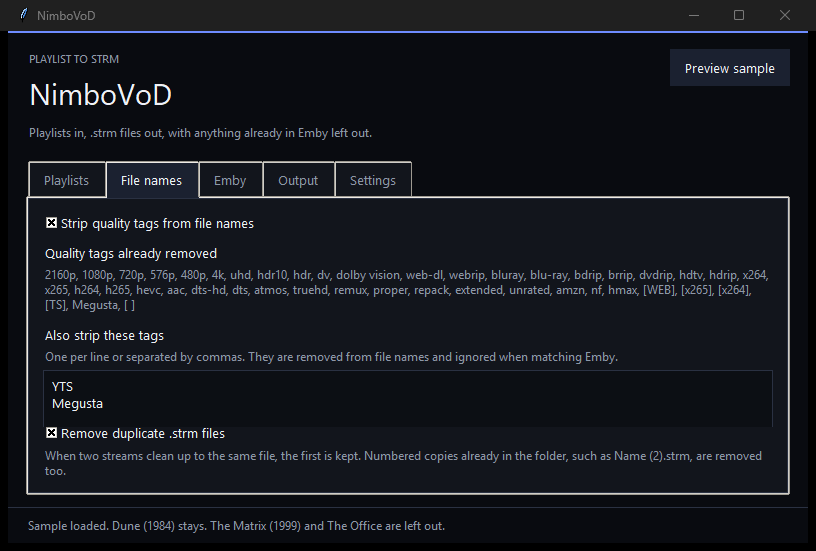
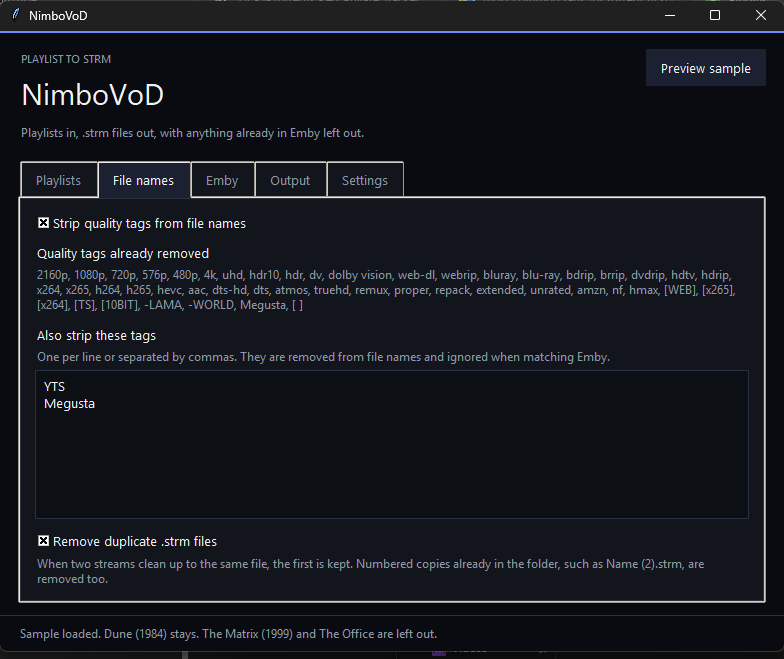
Keep tag editing responsive, remember the last playlist pull, and strip -LAMA, [10BIT], and -WORLD.

Changed region(s): [[0.0, 0.0, 1.0, 1.0]]

diff --git a/src/assets/nimbovod_gui.py b/src/assets/nimbovod_gui.py
@@ -17,6 +17,7 @@ import sys
 import threading
 import time
 import tkinter as tk
+from datetime import datetime
 # The cleaner is loaded from a separate file, so PyInstaller only sees imports made here.
 import urllib.error
 import urllib.request
@@ -39,7 +40,7 @@ ERROR_FG = "#f0c8d0"
 ERROR_LINE = "#c45d6e"
 MAX_PLAYLIST_BYTES = 80 * 1024 * 1024
 TREE_LIMIT = 2500
-APP_VERSION = "1.11"
+APP_VERSION = "1.12"
 RELEASES_URL = "https://api.github.com/repos/Coldsac/NimboVoD/releases?per_page=30"
 
 LAYOUT_HINTS = {
@@ -465,6 +466,8 @@ def apply_startup_registration(enabled: bool) -> str | None:
 
 # The first automatic update waits so a sign-in launch can find the network and the save folder.
 STARTUP_UPDATE_DELAY_MS = 60_000
+TAG_PLAN_DELAY_MS = 600
+PULL_MONTHS = ("Jan", "Feb", "Mar", "Apr", "May", "Jun", "Jul", "Aug", "Sep", "Oct", "Nov", "Dec")
 
 
 def auto_steps(pull_playlists: bool, pull_emby: bool, apply_strm: bool) -> list[str]:
@@ -584,6 +587,13 @@ def newer_releases(notes: list[dict], current: str) -> list[dict]:
     if current_key is None:
         return list(notes)
     return [note for note in notes if (version_key(note["tag"]) or ()) > current_key]
+
+
+def format_pull_time(moment: datetime) -> str:
+    """Local clock time for the last automatic playlist pull."""
+    hour = moment.hour % 12 or 12
+    suffix = "AM" if moment.hour < 12 else "PM"
+    return f"{PULL_MONTHS[moment.month - 1]} {moment.day}, {moment.year}, {hour}:{moment.minute:02d} {suffix}"
 
 
 def playlist_label(source: str) -> str:
@@ -738,6 +748,10 @@ class App(tk.Tk):
         super().__init__()
         self.cleaner = load_cleaner()
         self._tag_job: str | None = None
+        self._plan_token = 0
+        self._plan_running = False
+        self._plan_dirty = False
+        self.playlists_pulled_at = ""
         self._wheel_job: str | None = None
         self._wheel_pending = 0.0
         self._refresh_job: str | None = None
@@ -1045,7 +1059,19 @@ class App(tk.Tk):
             pady=8,
             font=("Segoe UI", 9),
         )
+        self.status_label = status
         status.pack(side="bottom", fill="x")
+        self.pull_log = tk.StringVar(value="")
+        self.pull_log_label = tk.Label(
+            self,
+            textvariable=self.pull_log,
+            bg=CANVAS,
+            fg=MUTED,
+            anchor="w",
+            padx=18,
+            pady=4,
+            font=("Segoe UI", 9),
+        )
         tk.Frame(self, bg=LINE, height=1).pack(side="bottom", fill="x")
 
         self.form_host = ttk.Frame(self)
@@ -1702,14 +1728,64 @@ class App(tk.Tk):
             return
         if self._tag_job is not None:
             self.after_cancel(self._tag_job)
-        self._tag_job = self.after(200, self._apply_tag_edit)
+        self._tag_job = self.after(TAG_PLAN_DELAY_MS, self._apply_tag_edit)
 
     def _apply_tag_edit(self) -> None:
         self._tag_job = None
         if not self._ready:
             return
-        self.build_plan()
         self._save_settings()
+        # A loaded playlist is tens of thousands of rows. Rebuilding it on the
+        # window thread makes each pause in this box freeze typing.
+        self._start_background_plan()
+
+    def _start_background_plan(self) -> None:
+        if self._plan_running:
+            self._plan_dirty = True
+            return
+        entries = [entry for source in self.sources for entry in source["entries"]]
+        library = self.library
+        options = self._plan_options()
+        self._plan_token += 1
+        token = self._plan_token
+        if not entries:
+            self.planned = []
+            self.fill_tree()
+            return
+        self._plan_running = True
+
+        def work() -> None:
+            planned = None
+            error = None
+            try:
+                planned = self.cleaner.plan_entries(entries, library, options)
+                for entry, row in zip(entries, planned):
+                    row["group"] = entry.get("group") or ""
+            except BaseException as exc:
+                error = exc
+
+            def deliver(planned=planned, error=error) -> None:
+                self._finish_background_plan(token, planned, error)
+
+            self._ui_calls.put(deliver)
+
+        threading.Thread(target=work, daemon=True).start()
+
+    def _finish_background_plan(self, token: int, planned, error) -> None:
+        self._plan_running = False
+        if not self.winfo_exists():
+            return
+        if token != self._plan_token:
+            return
+        if self._plan_dirty:
+            self._plan_dirty = False
+            self._start_background_plan()
+            return
+        if error is not None:
+            self._set_error(explain(error))
+            return
+        self.planned = planned
+        self.fill_tree()
 
     def _on_option(self, *_args) -> None:
         if not self._ready:
@@ -1909,6 +1985,7 @@ class App(tk.Tk):
                         self._refresh_sources()
                         self._auto_note = note
                         self._set_error(note)
+                        self._note_playlist_pull()
 
                     self._call_on_ui(apply_sources)
                     self._call_on_ui(lambda: self.status.set("Playlists updated."))
@@ -2133,6 +2210,17 @@ class App(tk.Tk):
 
     def _toggle_key(self) -> None:
         self.api_entry.configure(show="" if self.show_key.get() else "•")
+
+    def _note_playlist_pull(self) -> None:
+        moment = datetime.now().astimezone()
+        self.playlists_pulled_at = moment.isoformat(timespec="seconds")
+        self._show_pull_log(moment)
+        self._save_settings()
+
+    def _show_pull_log(self, moment: datetime) -> None:
+        self.pull_log.set(f"Playlists last pulled {format_pull_time(moment)}")
+        if self.pull_log_label.winfo_manager() != "pack":
+            self.pull_log_label.pack(side="bottom", fill="x", before=self.status_label)
 
     def _set_error(self, message: str) -> None:
         if message:
@@ -2615,6 +2703,8 @@ class App(tk.Tk):
         return str(path)
 
     def build_plan(self) -> None:
+        self._plan_token += 1
+        self._plan_dirty = False
         entries = [entry for source in self.sources for entry in source["entries"]]
         if not entries:
             self.planned = []
@@ -2846,6 +2936,7 @@ class App(tk.Tk):
                 if item.get("id") and item.get("name")
             ],
             "geometry": self.geometry(),
+            "playlistsPulledAt": self.playlists_pulled_at,
         }
 
     def _save_settings(self) -> None:
@@ -2933,6 +3024,15 @@ class App(tk.Tk):
         geometry = saved.get("geometry")
         if isinstance(geometry, str) and "x" in geometry:
             self.geometry(geometry)
+        pulled = saved.get("playlistsPulledAt")
+        if isinstance(pulled, str) and pulled.strip():
+            try:
+                moment = datetime.fromisoformat(pulled.strip())
+            except ValueError:
+                moment = None
+            if moment is not None:
+                self.playlists_pulled_at = moment.isoformat(timespec="seconds")
+                self._show_pull_log(moment)
 
     def _on_close(self) -> None:
         if self._wheel_job is not None:
@@ -2944,6 +3044,11 @@ class App(tk.Tk):
         if self._startup_job is not None:
             self.after_cancel(self._startup_job)
             self._startup_job = None
+        if self._tag_job is not None:
+            self.after_cancel(self._tag_job)
+            self._tag_job = None
+        self._plan_token += 1
+        self._plan_dirty = False
         pending = self.link_entry.get().strip()
         if pending:
             self.add_link()
@@ -3295,10 +3400,14 @@ def self_check() -> None:
                 "autoApplyStrm": True,
                 "refreshMinutes": 45,
                 "playlistFiles": [r"C:\playlists\test.m3u"],
+                "playlistsPulledAt": "2026-11-06T14:05:00",
             }
         ),
         encoding="utf-8",
     )
+    assert format_pull_time(datetime(2026, 11, 6, 14, 5)) == "Nov 6, 2026, 2:05 PM"
+    assert format_pull_time(datetime(2026, 1, 1, 0, 5)) == "Jan 1, 2026, 12:05 AM"
+    assert format_pull_time(datetime(2026, 1, 1, 12, 0)) == "Jan 1, 2026, 12:00 PM"
     assert version_key("v1.9") < version_key("v1.10")
     assert version_key("V1.10") == version_key("1.10")
     assert version_key("nightly") is None
@@ -3341,6 +3450,8 @@ def self_check() -> None:
     try:
         app = App()
         app.withdraw()
+        assert app.pull_log.get() == "Playlists last pulled Nov 6, 2026, 2:05 PM"
+        assert app.pull_log_label.winfo_manager() == "pack"
         assert not startup_registration_allowed()
         assert read_startup_command() == startup_before
         apply_startup_registration(True)
@@ -3475,6 +3586,41 @@ def self_check() -> None:
         app.layout.set("flat")
         app.build_plan()
         assert app.planned[0]["path"] == "The Matrix.strm", app.planned[0]["path"]
+        real_plan = app.cleaner.plan_entries
+        calls = {"thread": None}
+
+        def tracking_plan(entries, library, options):
+            calls["thread"] = threading.current_thread()
+            time.sleep(0.25)
+            return real_plan(entries, library, options)
+
+        app.cleaner.plan_entries = tracking_plan
+        try:
+            app._schedule_tags()
+            assert app._tag_job is not None
+            assert not app._plan_running
+            if app._tag_job is not None:
+                app.after_cancel(app._tag_job)
+                app._tag_job = None
+            started = time.perf_counter()
+            app._apply_tag_edit()
+            assert app._plan_running
+            assert calls["thread"] is not None
+            assert calls["thread"] is not threading.current_thread()
+            app.extra_tags.insert("end", "q")
+            assert "q" in app.extra_tags.get("1.0", "end")
+            assert time.perf_counter() - started < 0.2
+            deadline = time.time() + 5
+            while app._plan_running and time.time() < deadline:
+                app.update()
+                time.sleep(0.02)
+            assert not app._plan_running
+        finally:
+            app.cleaner.plan_entries = real_plan
+        app.extra_tags.delete("1.0", "end")
+        app.extra_tags.insert("1.0", "YTS")
+        app.build_plan()
+        assert app.planned[0]["path"] == "The Matrix.strm", app.planned[0]["path"]
         assert "left out" in app.summary.get()
         assert app.tree.item(children[0], "values")[2] in {"New", "Leave out"}
         order: list[str] = []
@@ -3539,6 +3685,11 @@ def self_check() -> None:
             assert not app._busy
             assert app.status.get().startswith("Added 1"), app.status.get()
             assert "left 2 unchanged" in app.status.get()
+            assert app.pull_log.get().startswith("Playlists last pulled ")
+            assert app.pull_log_label.winfo_manager() == "pack"
+            saved_pull = json.loads(Path(handle.name).read_text(encoding="utf-8"))
+            assert saved_pull.get("playlistsPulledAt") == app.playlists_pulled_at
+            assert datetime.fromisoformat(app.playlists_pulled_at)
         finally:
             import shutil
 

diff --git a/src/assets/nimbovod-cleaner.py b/src/assets/nimbovod-cleaner.py
@@ -74,11 +74,15 @@ QUALITY_TAGS = (
     "[x265]",
     "[x264]",
     "[TS]",
+    "[10BIT]",
+    "-LAMA",
+    "-WORLD",
     "Megusta",
     "[ ]",
 )
 QUALITY = re.compile(
-    r"\[\s*(?:web|x26[45]|ts)\s*\]"
+    r"\[\s*(?:web|x26[45]|ts|10\s*bit)\s*\]"
+    r"|-\s*(?:lama|world)\b"
     r"|\[\s*\]"
     r"|\b(?:2160p|1080p|720p|576p|480p|4k|uhd|hdr10\+?|hdr|dv|dolby(?:\s*vision)?|"
     r"web-?dl|web-?rip|bluray|blu-ray|bdrip|brrip|dvdrip|hdtv|hdrip|x264|x265|"
@@ -1004,6 +1008,11 @@ def self_test() -> None:
     assert show_by_title["Brand New Show S01E01"]["disposition"] == "keep"
     assert strip_quality("Movie [WEB] [x265] [x264] [TS] Megusta [ ]") == "Movie"
     assert strip_quality("Movie [1080p]") == "Movie"
+    assert strip_quality("Movie [10BIT]") == "Movie"
+    assert strip_quality("Movie.Name-LAMA") == "Movie Name"
+    assert strip_quality("Show Name S01E01-WORLD") == "Show Name S01E01"
+    assert strip_quality("Show.Name.S01E01.1080p-LAMA") == "Show Name S01E01"
+    assert strip_quality("The World S01E01 - WORLD") == "The World S01E01"
     assert normalize_title("Movie Megusta")[0] == "movie"
     copies = parse_m3u(
         "#EXTM3U\n"

diff --git a/README.md b/README.md
@@ -48,7 +48,7 @@ Add M3U links or choose local `.m3u` files, then click **Load playlists**. The s
   <img src="docs/images/names.png" width="680" alt="File names tab with quality tags, extra tags, and duplicate removal">
 </p>
 
-**Strip quality tags from file names** is on by default. It removes tags such as `1080p`, `x265`, and `[WEB]`. The full list is shown in the window. **Also strip these tags** removes extra words you type, both from file names and when matching Emby.
+**Strip quality tags from file names** is on by default. It removes tags such as `1080p`, `x265`, `[WEB]`, `[10BIT]`, `-LAMA`, and `-WORLD`. The full list is shown in the window. **Also strip these tags** removes extra words you type, both from file names and when matching Emby.
 
 **Remove duplicate .strm files** is on by default. The first stream that cleans up to the same file is kept. Later copies are left out, and numbered files already in the folder, such as `Name (2).strm`, are removed.
 
@@ -98,7 +98,7 @@ The options in that picture are an example. They start off, and **Refresh every*
 - **Automatically pull the Emby library** reads Emby with the saved address and API key.
 - **Automatically update the .strm folder** adds new `.strm` files and removes ones the plan leaves out. That step does not ask again.
 
-Checked steps wait one minute after the program opens, then run one at a time: playlists, then Emby, then the `.strm` folder. A failed playlist or Emby pull skips the folder write. **Refresh every** repeats the checked steps after that many minutes, without the extra startup minute. Leave it blank to run only that first update. One minute is the shortest interval. Seven days is the longest.
+Checked steps wait one minute after the program opens, then run one at a time: playlists, then Emby, then the `.strm` folder. A failed playlist or Emby pull skips the folder write. **Refresh every** repeats the checked steps after that many minutes, without the extra startup minute. Leave it blank to run only that first update. One minute is the shortest interval. Seven days is the longest. After the playlists load, the bottom of the window shows when they were last pulled. That time stays until the next successful pull.
 
 **Check for updates** reads the [GitHub releases](https://github.com/Coldsac/NimboVoD/releases) and shows anything newer than this copy. **Open release page** opens that release so you can download it.
 
